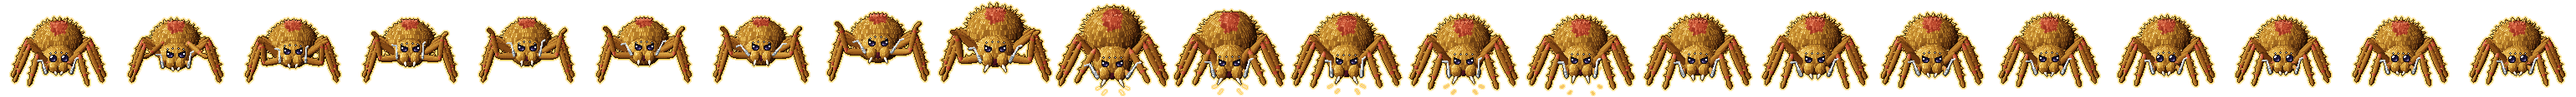
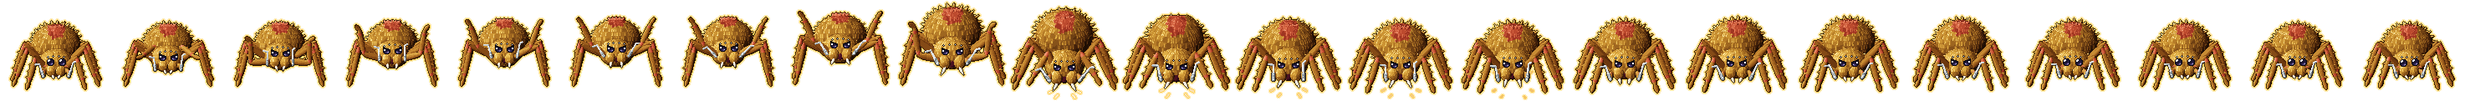
wip(pets): паук — золото с бронзой, угроза на дыбах, кадр покоя в рамке, перепечено
Claude-Session: https://claude.ai/code/session_018QnrYRe8jfmREkVPy3Dca8

Changed region(s): [[0.0, 0.0256, 0.9986, 0.9487]]

diff --git a/src/lib/pet-pixel-sprites.ts b/src/lib/pet-pixel-sprites.ts
@@ -139,24 +139,24 @@ export const PET_PX: Record<string, PetPx> = {
   },
   spider: {
     box: 48,
-    rev: '24f205ffe1',
+    rev: '39dc6e9219',
     anims: {
-      idle: { n: 72, fps: 24, x: -4, y: 8, w: 56, h: 43 },
-      walk: { n: 24, fps: 24, x: -4, y: 8, w: 56, h: 44 },
-      happy: { n: 26, fps: 24, x: -7, y: -1, w: 62, h: 52 },
-      work: { n: 48, fps: 24, x: -7, y: 3, w: 66, h: 48 },
-      attack: { n: 22, fps: 24, x: -8, y: 2, w: 64, h: 56 },
-      sleep: { n: 72, fps: 24, x: 1, y: 12, w: 46, h: 41 },
+      idle: { n: 72, fps: 24, x: -3, y: 8, w: 54, h: 43 },
+      walk: { n: 24, fps: 24, x: -3, y: 8, w: 54, h: 44 },
+      happy: { n: 26, fps: 24, x: -6, y: -1, w: 60, h: 52 },
+      work: { n: 48, fps: 24, x: -6, y: 3, w: 65, h: 48 },
+      attack: { n: 22, fps: 24, x: -7, y: 0, w: 62, h: 58 },
+      sleep: { n: 72, fps: 24, x: 2, y: 12, w: 44, h: 41 },
     },
     large: {
       box: 112,
       anims: {
-        idle: { n: 72, fps: 24, x: -4, y: 23, w: 120, h: 92 },
-        walk: { n: 24, fps: 24, x: -4, y: 23, w: 120, h: 93 },
-        happy: { n: 26, fps: 24, x: -12, y: 2, w: 136, h: 113 },
-        work: { n: 48, fps: 24, x: -10, y: 11, w: 143, h: 104 },
-        attack: { n: 22, fps: 24, x: -14, y: 8, w: 140, h: 117 },
-        sleep: { n: 72, fps: 24, x: 7, y: 32, w: 98, h: 85 },
+        idle: { n: 72, fps: 24, x: -2, y: 23, w: 116, h: 92 },
+        walk: { n: 24, fps: 24, x: -2, y: 23, w: 116, h: 93 },
+        happy: { n: 26, fps: 24, x: -10, y: 2, w: 132, h: 113 },
+        work: { n: 48, fps: 24, x: -8, y: 11, w: 141, h: 104 },
+        attack: { n: 22, fps: 24, x: -11, y: 4, w: 134, h: 121 },
+        sleep: { n: 72, fps: 24, x: 10, y: 32, w: 92, h: 85 },
       },
     },
   },

diff --git a/src/lib/pets-pixel/spider.ts b/src/lib/pets-pixel/spider.ts
@@ -629,7 +629,7 @@ function attackPose(t: number): Pose {
   const o: Pose = { ...REST };
   o.pitch = kf(t, [
     [0, 0],
-    [0.27, -0.34, 'o'],
+    [0.27, -0.3, 'o'],
     [0.35, 0.14, 'i'],
     [0.5, 0.06],
     [0.72, 0],
@@ -642,7 +642,7 @@ function attackPose(t: number): Pose {
   ]);
   o.bz = kf(t, [
     [0, 0],
-    [0.27, 2.2, 'o'],
+    [0.27, 3.8, 'o'],
     [0.35, -1.2, 'i'],
     [0.5, -0.3],
     [0.7, 0],
@@ -776,9 +776,9 @@ const KNEE: V3[] = [
 ];
 const FOOT: V3[] = [
   [15.0, 11.0, 0],
-  [22.5, 5.0, 0],
-  [23.5, -5.0, 0],
-  [21.0, -14.0, 0],
+  [21.8, 5.0, 0],
+  [22.5, -5.0, 0],
+  [20.5, -14.0, 0],
 ];
 const TAR = 3.0;
 const UP: V3 = [0, 0, 1];
@@ -877,7 +877,7 @@ export function skel(o: Pose, lag: Lag): Skel {
       if (k === 0) {
         raised = s < 0 ? o.raiseL : o.raiseR;
         if (raised > 0) {
-          const tgt: V3 = [s * (15 + o.spread * 5), 9 + o.spread * 2, 36 - o.spread * 6];
+          const tgt: V3 = [s * (15 + o.spread * 4.5), 9 + o.spread * 2, 36 + o.spread];
           foot = lerp3(foot, tgt, raised);
         }
         foot = add(foot, s < 0 ? [o.fLx, 0, o.fLz] : [o.fRx, 0, o.fRz]);
